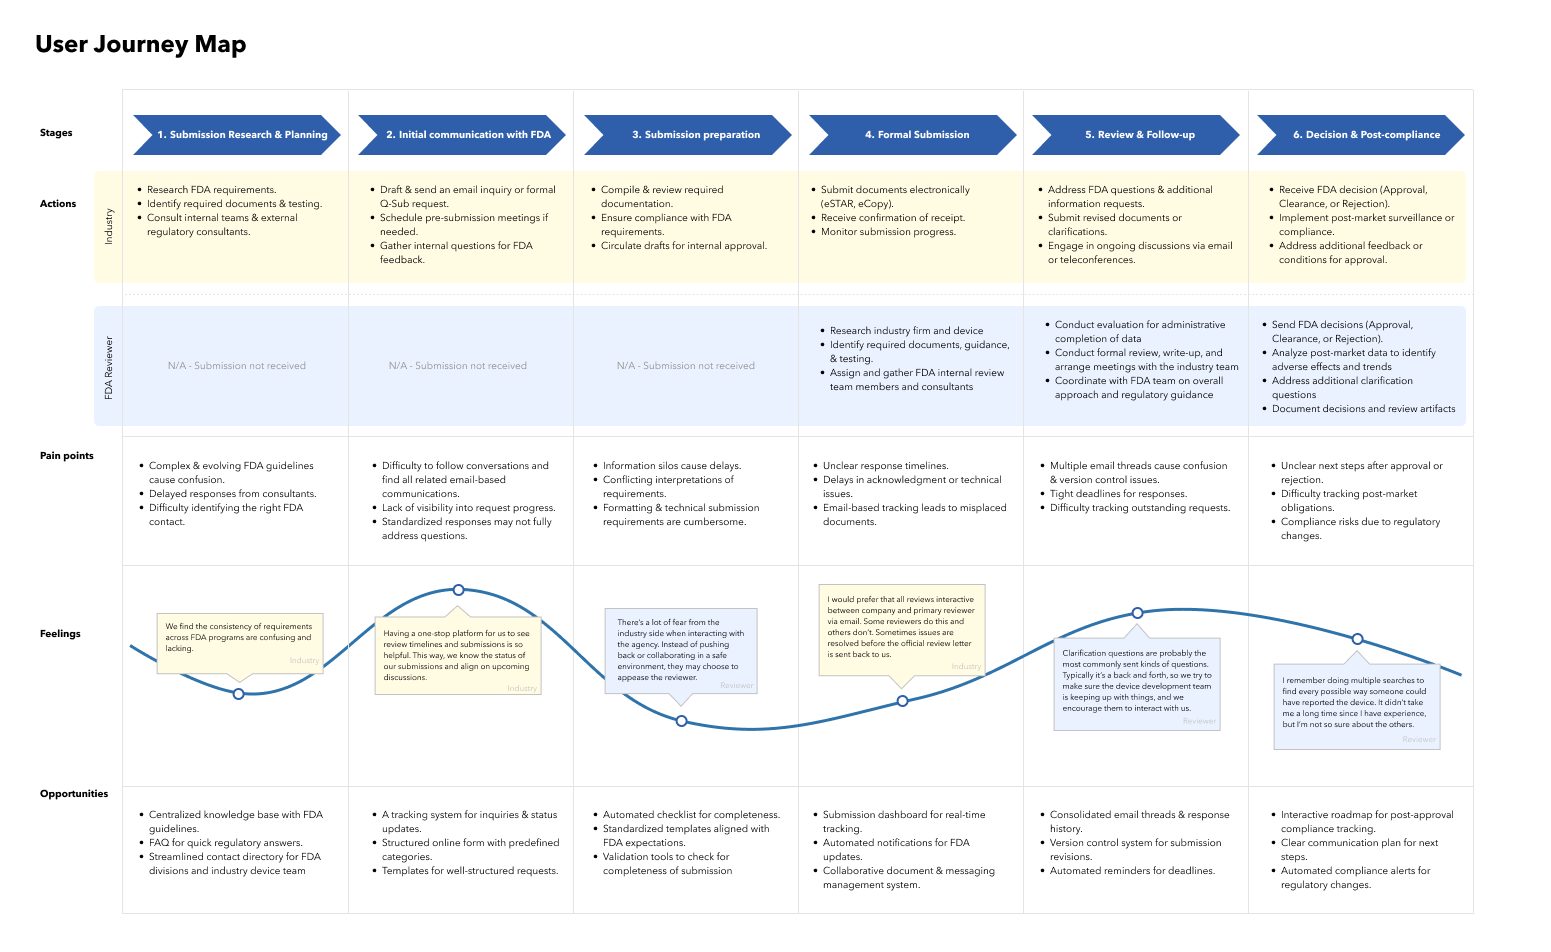
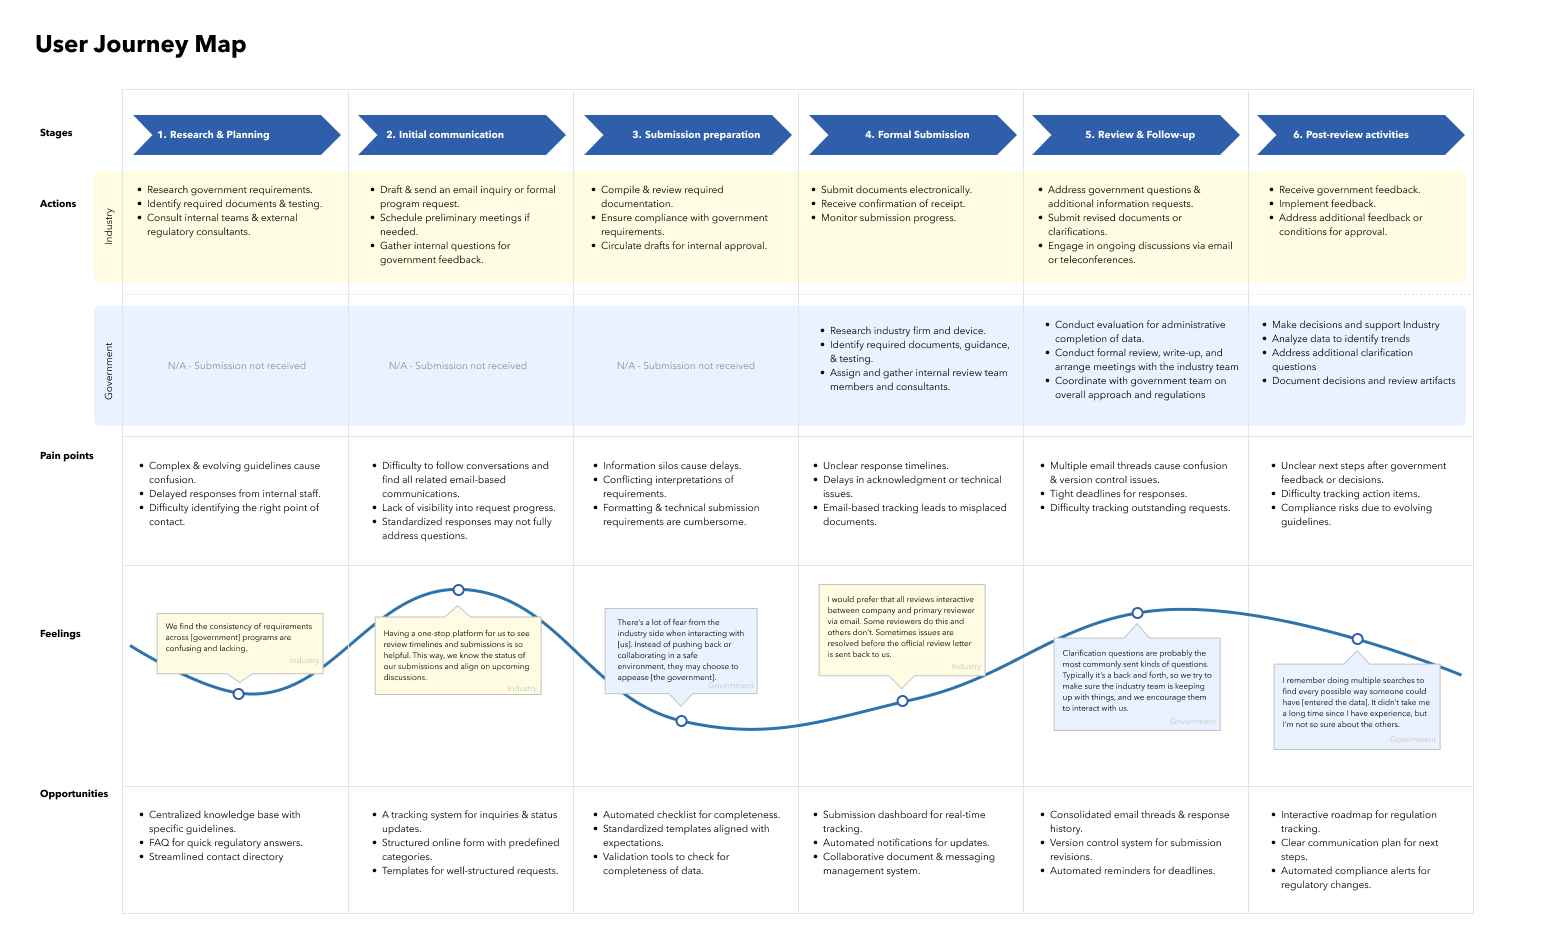
Updated language

diff --git a/project1.html b/project1.html
@@ -31,11 +31,10 @@
     <main>
         <section class="project-overview">
             <h2>Booz Allen Hamilton</h2>
-            <h1>Bridging the gap between medical device regulators and manufacturers</h1>
+            <h1>Bridging the communcation gap between government and industry</h1>
             <p>
-                I was the lead researcher and designer for a regulatory interactions program and enterprise
-                communication features that aimed to improve communication between the Food and Drug Administration
-                (FDA) and medical device manufacturers.
+                I was the lead researcher and designer for a government entity's enterprise communication features that aimed to improve collaboration between the entity and industry product teams. 
+                Most of my work focuses on building communication tools that would improve real-time interactions, conversation tracking across multiple legacy applications, and long-term interaction trends.
             </p>
             <p>
                 <strong>Note: </strong>Because this government work is confidential, I'm limited in what I can share.
@@ -65,7 +64,7 @@
                     <h2>Overview</h2>
                     <h3>Problem</h3>
                     <p>
-                        High-quality communication between FDA and device manufacturers is associated with improvements in medical devices, resulting in the U.S. market having access safer and more effective products. Traditionally, medical device developers communicate with FDA by physically mailing in parcels of device information and creating dozens of different email threads with various attachments. This decentralized communication process hampers collaboration to develop quality medical devices. 
+                        High-quality communication between governing entities and solution developers is associated with improvements in quality, resulting in the market having access safer and more effective products. Traditionally, government agencies receive physical mail, emails, and various of other information. This decentralized communication process hampers collaboration to develop quality products and services. 
                     </p>
                     <h3>Results & impact</h3>
                     <p>
@@ -82,12 +81,12 @@
                     <h2>Phase 1: Uncover the Problem</h2>
                     <h3>Optimizing communication is a shared goal</h3>
                     <p>
-                        More frequent interactions with the FDA often leads to better devices. FDA users desired to see their communications more closely tied to the device and various FDA programs and reviews that it has gone through. It is valuable for device manufacturer teams to connect directly with the FDA device review teams, but also to conversations and programs involved in the device's total lifecycle.
+                        More frequent interactions with governing bodies often leads to better solutions. Users desired to see their communications more closely tied to its journey through various regulation programs. It is valuable for product teams to connect directly with regulators, but also to omni-channel conversations and regulatory programs involved in the lifecycle. 
                     </p>
                     <blockquote class="quote">
                         “ Industry users and FDA have the same goals. We both want to get the product to market as
-                        quickly and using the least resources as possible to get the submissions reviewed and
-                        completed.”
+                        quickly and using the least resources as possible to get the products reviewed and
+                        regulated.”
                         <cite>- User highlights that communication improvement is part of a larger, mutual goal</cite>
                     </blockquote>
                     <h3>Three user needs that design needs to fulfill</h3>
@@ -99,23 +98,23 @@
                             <p>Users need real-time communication so that they can proactively address problems.</p>
                         </div>
                         <div>
-                            <p>Users need to track and consolidate all device development conversations.</p>
+                            <p>Users need to track and consolidate all product development conversations.</p>
                         </div>
                         <div>
-                            <p>Users need ways to request for help or resources while working on their device.</p>
+                            <p>Users need ways to request for help or resources while working on their solution.</p>
                         </div>
                     </div>
                     <h3>Identifying user needs with thorough research</h3>
-                    <p>In order to prevent delays and reduce risk when developing a system, we have to understand the current workflow of FDA reviewers and medical device developers. 
-                        I conducted <strong>desk research</strong> by sifting through dozens of past user sessions to understand the legacy systems that reviewers worked in and to avoid repeating work. 
-                        I also familiarized myself with the reviewer's work applications by using <strong>sandbox environments</strong>, so that I could understand the users' perspective better. In addition, 
-                        I conducted <strong>one-on-one interviews</strong> with four FDA users to validate ideas about how to re-imagine their communication workflow. 
+                    <p>In order to prevent delays and reduce risk when developing a system, we have to understand the current workflow of oversight entities and innovation teams. 
+                        I conducted <strong>desk research</strong> by sifting through dozens of past user sessions to understand the legacy systems that government worked in and to avoid repeating work. 
+                        I also familiarized myself with the government's work applications by using <strong>sandbox environments</strong>, so that I could understand the users' perspective better. In addition, 
+                        I conducted <strong>one-on-one interviews</strong> with four users to validate ideas about how to re-imagine their communication workflow. 
                     </p>
                     <figure>
                         <img src="assests/project 1/User Journey Map.png" alt="Journey map of a medical device review process"
                             style="width:100%">
                         <figcaption>
-                            I created a generic journey map based on public information to illustrate how FDA reviewers and device developers typically communicate during medical device development. Many details have been simplified or redacted, so it's meant more as a rough sketch than an exact representation.
+                            I created a generic journey map to illustrate how government and industry typically communicate during product development. Many details have been simplified or redacted, so it's meant more as a rough sketch than an exact representation.
                         </figcaption>
                     </figure>
                 </section>
@@ -127,10 +126,10 @@
                     </p>
                     <h3>Usability testing the threaded messaging rapid prototype for real-time interactions</h3>
                     <p>
-                        I worked with the developers to evaluate the effectiveness of a messaging rapid prototype. I scheduled, interviewed, moderated, and took notes for each of the 10 <strong>usability testing </strong>sessions with FDA users. I guided them through the tasks, which involved finding messages from industry users, composing messages, and searching through messages for answers. As they walk through the tasks, I asked them to think aloud and tracked their behaviors (e.g., how quickly they completed each task, self-reported satisfaction of each task, etc.) and probed them to find the "why" behind their answers.
+                        I worked with the developers to evaluate the effectiveness of a messaging rapid prototype. I scheduled, interviewed, moderated, and took notes for each of the 10 <strong>usability testing </strong>sessions with government users. I guided them through the tasks, which involved finding messages from industry users, composing messages, and searching through messages for answers. As they walk through the tasks, I asked them to think aloud and tracked their behaviors (e.g., how quickly they completed each task, self-reported satisfaction of each task, etc.) and probed them to find the "why" behind their answers.
                     </p>
                     <p>
-                        I found that FDA users had the most difficulty locating messages and understanding who had access to the messages. My re-designs focused on creating a clear navigational path to messages and clarifying the visibility of messages.
+                        I found that users had the most difficulty locating messages and understanding who had access to the messages. My re-designs focused on creating a clear navigational path to messages and clarifying the visibility of messages.
                     </p>
                     <figure>
                         <img src="assests/project 1/Usability Testing Summary.png" alt="Usability testing summary"
@@ -149,14 +148,14 @@
                         <img src="assests/project 1/Omnichannel Comms.png" alt="Omnichannel communications"
                             style="width:100%">
                         <figcaption>
-                            The nature of communication between FDA and device developers can take many places and there are many people involved. It’s diffcult to track a singular source of truth and complete history of conversations.
+                            The nature of communication between government and industry can take many places and there are many people involved. It’s difficult to track a singular source of truth and complete history of conversations.
                         </figcaption>
                     </figure>
                     <h3>Creating & user testing a new request workflow</h3>
                     <p>
-                        In order to address device developer need for special communication requests, I worked with a product team through <strong>Jira</strong> to develop an end-to-end web app solution. 
-                        I designed UIs for a pilot program that could help track long-term interaction requests. I analyzed feedback from <strong>user testing</strong> sessions with 25 FDA reviewer. 
-                        I studied how they accepted and fulfilled requests from users through the systems and then iterated upon the designs. I also designed web forms for device developers to send forms in.
+                        In order to address industry needs for communication requests, I worked with a product team through <strong>Jira</strong> to develop an end-to-end web app solution. 
+                        I designed UIs that could help track long-term interaction requests. I analyzed feedback from <strong>user testing</strong> sessions with 25 government users. 
+                        I studied how they accepted and fulfilled requests from users through the systems and then iterated upon the designs. I also designed web forms for industry to send in information.
                     </p>
                     <figure>
                         <img src="assests/project 1/Pega Constellation.png" alt="Pega constellation design system example"
@@ -179,7 +178,7 @@
                             I created a comprehensive PDF with high-fidelity designs and documentation for additional features to explore.
                         </li>
                         <li>
-                            I delivered multiple high-fidelity design assets for the FDA reviewer tracking interactions workflow, which supported cross-functional alignment and accelerated handoff to development.
+                            I delivered multiple high-fidelity design assets for the government's workflow to track interactions, which supported cross-functional alignment and accelerated handoff to development.
                         </li>
                     </ul>
                     <h3>Measuring outcomes</h3>
@@ -191,14 +190,14 @@
                             The summary log prototype was able to reduce 25% in tool-switching friction. Past studies on a similar tool in the legacy system showed that users on average were switching ~12 times between various documents and tools to record data. With the new summary log, people on average were switching ~9 times, drastically reducing the need to add longer notes in other programs.
                         </li>
                         <li>
-                            Developing a long-term interactions program was able to get 60% of user loyalty to the platform. While long-term retention data wasn’t available due to the early stage of developing the program, 60% of test participants expressed strong intent to use the new workflow regularly. These are strong indicators of potential user loyalty.
+                            Developing a long-term interactions workflow was able to get 60% of user loyalty to the platform. While long-term retention data wasn’t available due to the early stage of developing the program, 60% of test participants expressed strong intent to use the new workflow regularly. These are strong indicators of potential user loyalty.
                         </li>
                     </ol>
                 </section>
                 <section class="project-content-section" id="final">
                     <h2>Final Design Choices</h2>
                     <p>
-                        The images below are not associated with the FDA. They just show similar design ideas and the kind of complex flows I may have worked on.
+                        The images below are not associated with being used by the government. They just show similar design ideas and exemplify kind of complex flows I worked on.
                     </p>
                     <h3>Threaded messaging prototype</h3>
                     <p>

diff --git a/index.html b/index.html
@@ -59,9 +59,9 @@
                 <img src="assests/project 1/Usability Testing Summary.png" alt="Thumbnail for Booz Allen Hamilton project"/>
                 <div class="card-content">
                     <h3 class="blue-text">Booz Allen Hamilton</h3>
-                    <h2>Bridging the gap between medical device regulators and manufacturers</h2>
-                    <p>I led the research and design to improve a regulatory interaction program during the medical device’s
-                        journey from ideation to U.S. market launch.</p>
+                    <h2>Bridging the communcation gap between governing entities and product developers</h2>
+                    <p>I led the research and design to improve communication during a solution's
+                        journey from ideation to commerical readiness.</p>
                     <a href="project1.html">
                         <button class="main-button">Explore</button>
                     </a>
